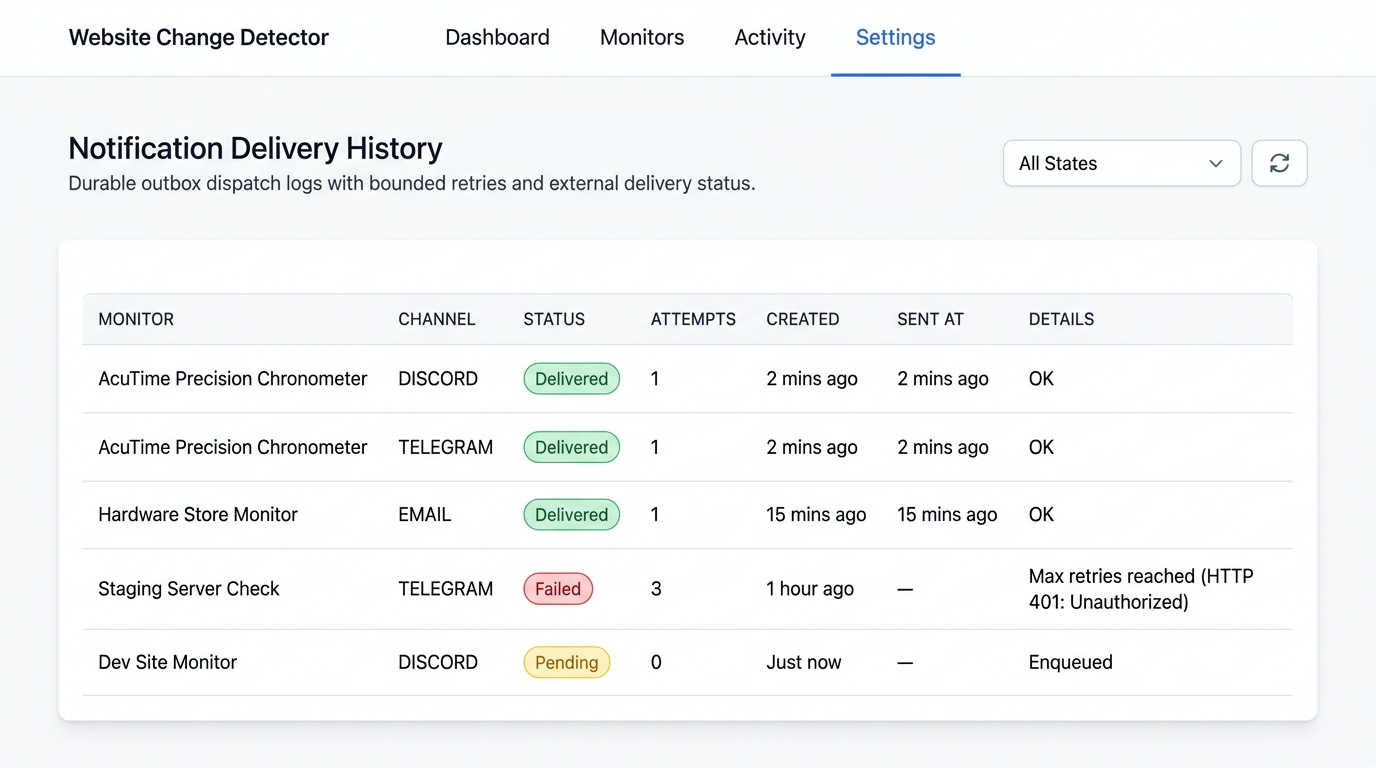
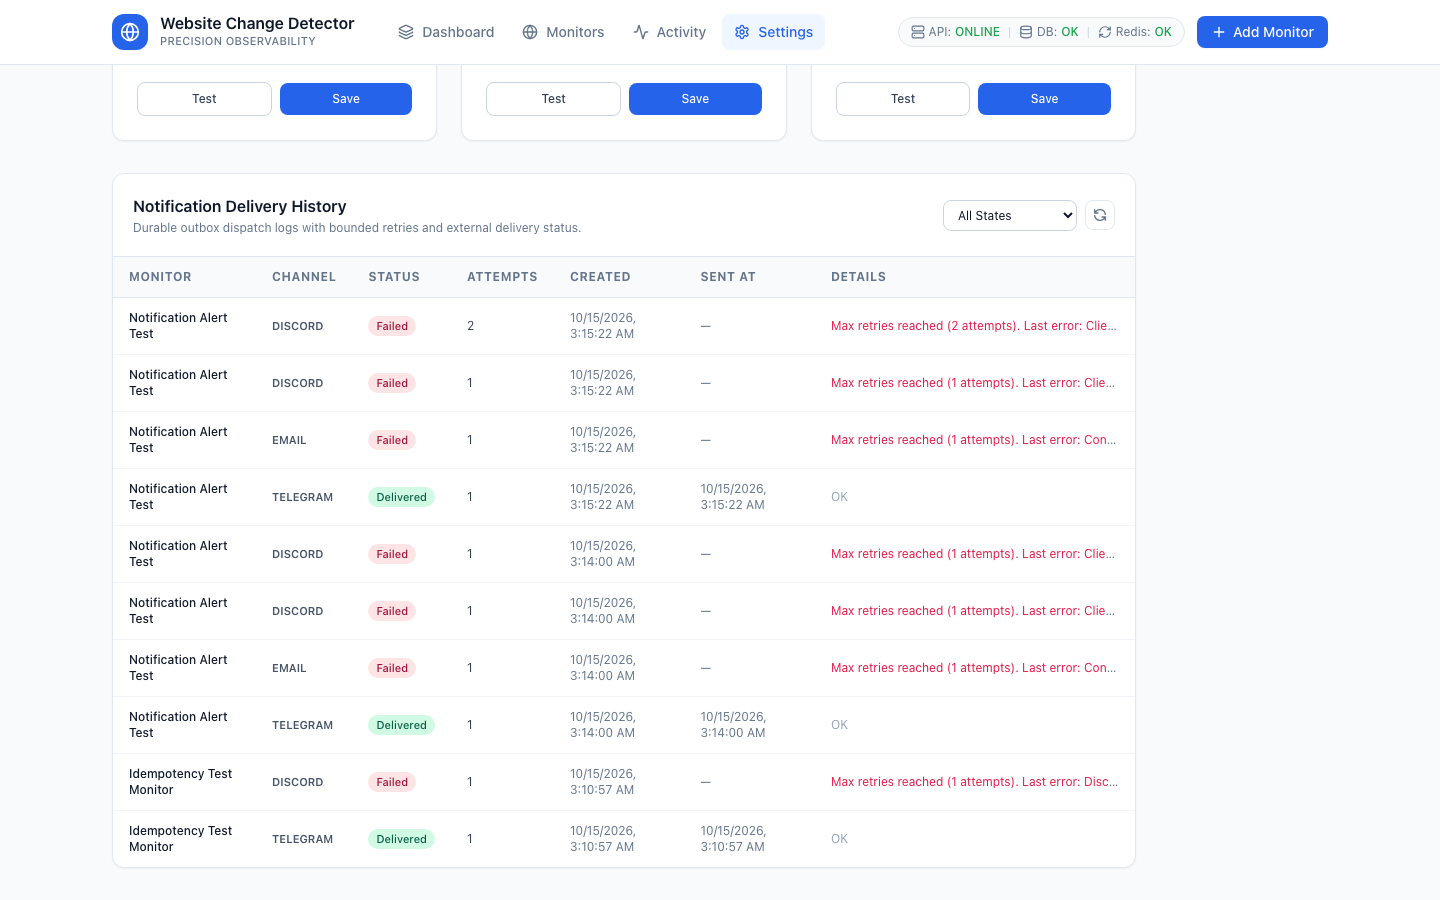
Validate notification webhook destinations and fix build errors

diff --git a/frontend/src/components/SettingsView.tsx b/frontend/src/components/SettingsView.tsx
@@ -3,7 +3,7 @@ import { api } from '../services/api';
 import { NotificationChannel, NotificationOutboxItem } from '../types';
 
 export const SettingsView: React.FC = () => {
-  const [settings, setSettings] = useState<Record<string, NotificationChannel>>({});
+  const [, setSettings] = useState<Record<string, NotificationChannel>>({});
   const [outboxItems, setOutboxItems] = useState<NotificationOutboxItem[]>([]);
   const [loading, setLoading] = useState(true);
   const [outboxLoading, setOutboxLoading] = useState(false);

diff --git a/backend/tests/test_phase5.py b/backend/tests/test_phase5.py
@@ -90,8 +90,11 @@ def test_confirmed_change_generates_notification_event():
         db.expire_all()
         assert run_changed.state == CheckRunStateEnum.CHANGED
 
-        # Verify notification outbox entry was created
-        outbox_items = db.query(NotificationOutbox).filter(NotificationOutbox.monitor_id == monitor.id).all()
+        # Verify notification outbox entry was created for this channel
+        outbox_items = db.query(NotificationOutbox).filter(
+            NotificationOutbox.monitor_id == monitor.id,
+            NotificationOutbox.channel_id == channel.id,
+        ).all()
         assert len(outbox_items) == 1
         item = outbox_items[0]
         assert item.channel_id == channel.id
@@ -263,16 +266,17 @@ def test_duplicate_processing_idempotency():
 
         # Call create_outbox_entries 1st time
         entries1 = create_outbox_entries_for_changed_version(db, monitor, version, "Change 1", force_async=False)
-        assert len(entries1) == 1
+        assert len(entries1) >= 1
 
         # Call create_outbox_entries 2nd time for identical version and monitor
         entries2 = create_outbox_entries_for_changed_version(db, monitor, version, "Change 1 duplicate", force_async=False)
         assert len(entries2) == 0, "Second call must deduplicate and return 0 new entries"
 
-        # Check total records in database
+        # Check total records for this specific channel
         total = db.query(NotificationOutbox).filter(
             NotificationOutbox.monitor_id == monitor.id,
             NotificationOutbox.version_id == version.id,
+            NotificationOutbox.channel_id == ch.id,
         ).count()
         assert total == 1
 
@@ -321,7 +325,9 @@ def test_smtp_delivery_via_mock_transport():
 def test_notification_failure_records_error_and_retries_safely():
     db = SessionLocal()
     try:
+        m_id = uuid.uuid4()
         monitor = Monitor(
+            id=m_id,
             name="Retry Failure Monitor",
             url="http://127.0.0.1:8000/fixture/product",
             canonical_url="http://127.0.0.1:8000/fixture/product",
@@ -331,7 +337,7 @@ def test_notification_failure_records_error_and_retries_safely():
         )
         version = Version(
             id=uuid.uuid4(),
-            monitor_id=monitor.id,
+            monitor_id=m_id,
             sequence_number=1,
             content_hash="hash_fail",
             normalized_text="fail text",
@@ -341,7 +347,7 @@ def test_notification_failure_records_error_and_retries_safely():
         # Invalid telegram configuration that will fail
         ch = NotificationChannel(
             id=uuid.uuid4(),
-            monitor_id=monitor.id,
+            monitor_id=m_id,
             channel_type=ChannelTypeEnum.TELEGRAM,
             configuration_json={"bot_token": "real_invalid_token", "chat_id": ""},
             enabled=True,
@@ -434,7 +440,7 @@ def test_activity_feed_real_records():
         # Baseline capture generates baseline_created event in check_runs
         run_base = enqueue_check(monitor.id, db=db, force_async=False)
 
-        res = client.get("/api/activity?limit=10")
+        res = client.get(f"/api/activity?monitor_id={monitor.id}")
         assert res.status_code == 200
         data = res.json()
         assert "items" in data
@@ -481,3 +487,42 @@ def test_settings_persistence_across_requests():
     assert discord_setting["enabled"] is True
     assert "******" in discord_setting["configuration"]["webhook_url"]
     assert "realtokenxyz" not in discord_setting["configuration"]["webhook_url"]
+
+
+# -------------------------------------------------------------------------
+# 11. Discord Webhook SSRF Rejection
+# -------------------------------------------------------------------------
+def test_discord_webhook_ssrf_rejection():
+    # 1. Reject private IP / non-HTTPS
+    res_private = client.put(
+        "/api/settings/notifications/discord",
+        json={
+            "enabled": True,
+            "configuration": {"webhook_url": "http://127.0.0.1:8000/internal-api"},
+        },
+    )
+    assert res_private.status_code == 400
+    assert "INVALID_WEBHOOK_URL" in res_private.text
+
+    # 2. Reject arbitrary non-Discord destination domain
+    res_external = client.put(
+        "/api/settings/notifications/discord",
+        json={
+            "enabled": True,
+            "configuration": {"webhook_url": "https://evil-attacker.example.com/log"},
+        },
+    )
+    assert res_external.status_code == 400
+    assert "INVALID_WEBHOOK_URL" in res_external.text
+
+    # 3. Accept valid discord.com HTTPS destination
+    res_valid = client.put(
+        "/api/settings/notifications/discord",
+        json={
+            "enabled": True,
+            "configuration": {"webhook_url": "https://discord.com/api/webhooks/valid/test1234"},
+        },
+    )
+    assert res_valid.status_code == 200
+    assert res_valid.json()["enabled"] is True
+

diff --git a/backend/app/services/notifier.py b/backend/app/services/notifier.py
@@ -20,10 +20,31 @@ from app.models.models import (
     utc_now,
 )
 
+from urllib.parse import urlparse
+
 logger = logging.getLogger("notifications")
 
 # In-memory test delivery sink for automated tests verification
 test_delivery_sink: List[Dict[str, Any]] = []
+
+
+def validate_discord_webhook_url(webhook_url: str) -> None:
+    """Validates Discord webhook URL to prevent SSRF and non-Discord destinations."""
+    if not webhook_url:
+        raise ValueError("Discord webhook_url is required.")
+
+    parsed = urlparse(webhook_url.strip())
+    if parsed.scheme.lower() != "https":
+        raise ValueError("Discord webhook URL must use HTTPS scheme.")
+
+    hostname = (parsed.hostname or "").lower()
+    allowed_domains = ("discord.com", "discordapp.com")
+    if not any(hostname == d or hostname.endswith("." + d) for d in allowed_domains):
+        if not (settings.TEST_MODE and (hostname in ("mock", "localhost", "test") or "mock" in hostname)):
+            raise ValueError(
+                f"Invalid Discord webhook destination '{hostname}'. "
+                "Only official discord.com and discordapp.com endpoints are allowed."
+            )
 
 
 def build_comparison_url(monitor_id: uuid.UUID) -> str:
@@ -40,10 +61,9 @@ def dispatch_discord(
     comparison_url: str,
 ) -> None:
     """Delivers Discord embed via webhook."""
-    if not webhook_url:
-        raise ValueError("Discord webhook_url is required.")
+    validate_discord_webhook_url(webhook_url)
 
-    if settings.TEST_MODE and "discord.com" not in webhook_url:
+    if settings.TEST_MODE and ("mock" in webhook_url or not webhook_url.startswith("https://discord.com/api/webhooks/real_")):
         # Mock delivery sink for test suite
         test_delivery_sink.append({
             "channel": "discord",

diff --git a/backend/app/services/checker.py b/backend/app/services/checker.py
@@ -179,6 +179,7 @@ def execute_check(check_run_id: uuid.UUID) -> None:
             locked_monitor.last_changed_at = utc_now()
             locked_monitor.next_check_at = utc_now() + timedelta(minutes=locked_monitor.interval_minutes)
             locked_monitor.last_error = None
+            db.commit()
 
         elif latest_version.content_hash == result.content_hash:
             # UNCHANGED: Content hash matches previous version
@@ -192,6 +193,7 @@ def execute_check(check_run_id: uuid.UUID) -> None:
             locked_monitor.last_checked_at = utc_now()
             locked_monitor.next_check_at = utc_now() + timedelta(minutes=locked_monitor.interval_minutes)
             locked_monitor.last_error = None
+            db.commit()
 
         else:
             # CHANGED: Content hash differs from previous version
@@ -245,8 +247,6 @@ def execute_check(check_run_id: uuid.UUID) -> None:
                 version=version,
                 change_summary=summary,
             )
-        else:
-            db.commit()
 
     except SecurityValidationError as e:
         check_run.state = CheckRunStateEnum.BLOCKED

diff --git a/backend/app/api/notifications.py b/backend/app/api/notifications.py
@@ -102,10 +102,15 @@ def update_notification_settings(
         new_token = new_cfg.get("bot_token", "").strip()
         if not new_token or "******" in new_token:
             new_cfg["bot_token"] = existing_cfg.get("bot_token", "")
-    elif ch_type == "email":
-        new_pw = new_cfg.get("smtp_password", "").strip()
-        if not new_pw or "******" in new_pw:
-            new_cfg["smtp_password"] = existing_cfg.get("smtp_password", "")
+    if ch_type == "discord" and payload.enabled and new_cfg.get("webhook_url"):
+        from app.services.notifier import validate_discord_webhook_url
+        try:
+            validate_discord_webhook_url(new_cfg["webhook_url"])
+        except ValueError as e:
+            raise HTTPException(
+                status_code=status.HTTP_400_BAD_REQUEST,
+                detail={"error": {"code": "INVALID_WEBHOOK_URL", "message": str(e)}},
+            )
 
     channel.configuration_json = new_cfg
     channel.enabled = payload.enabled
